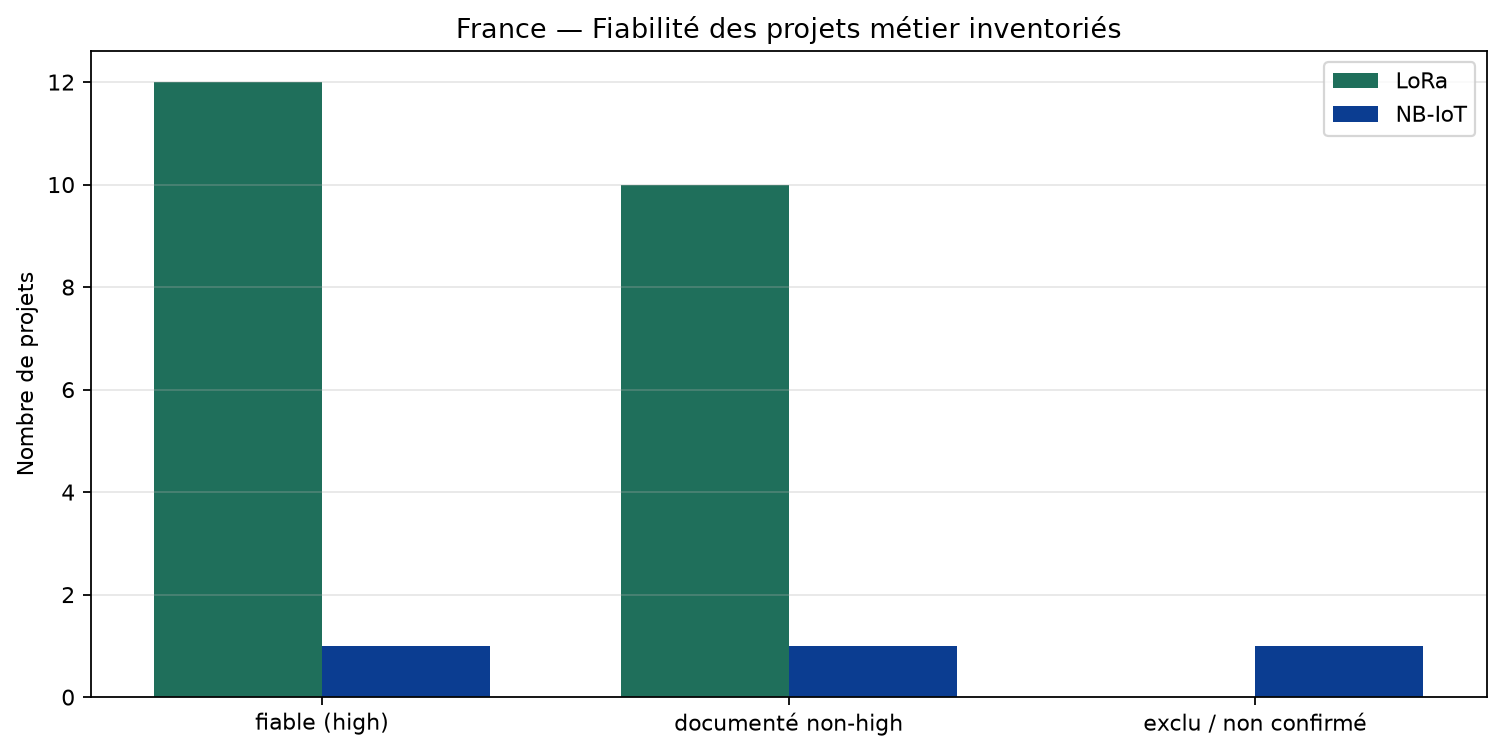
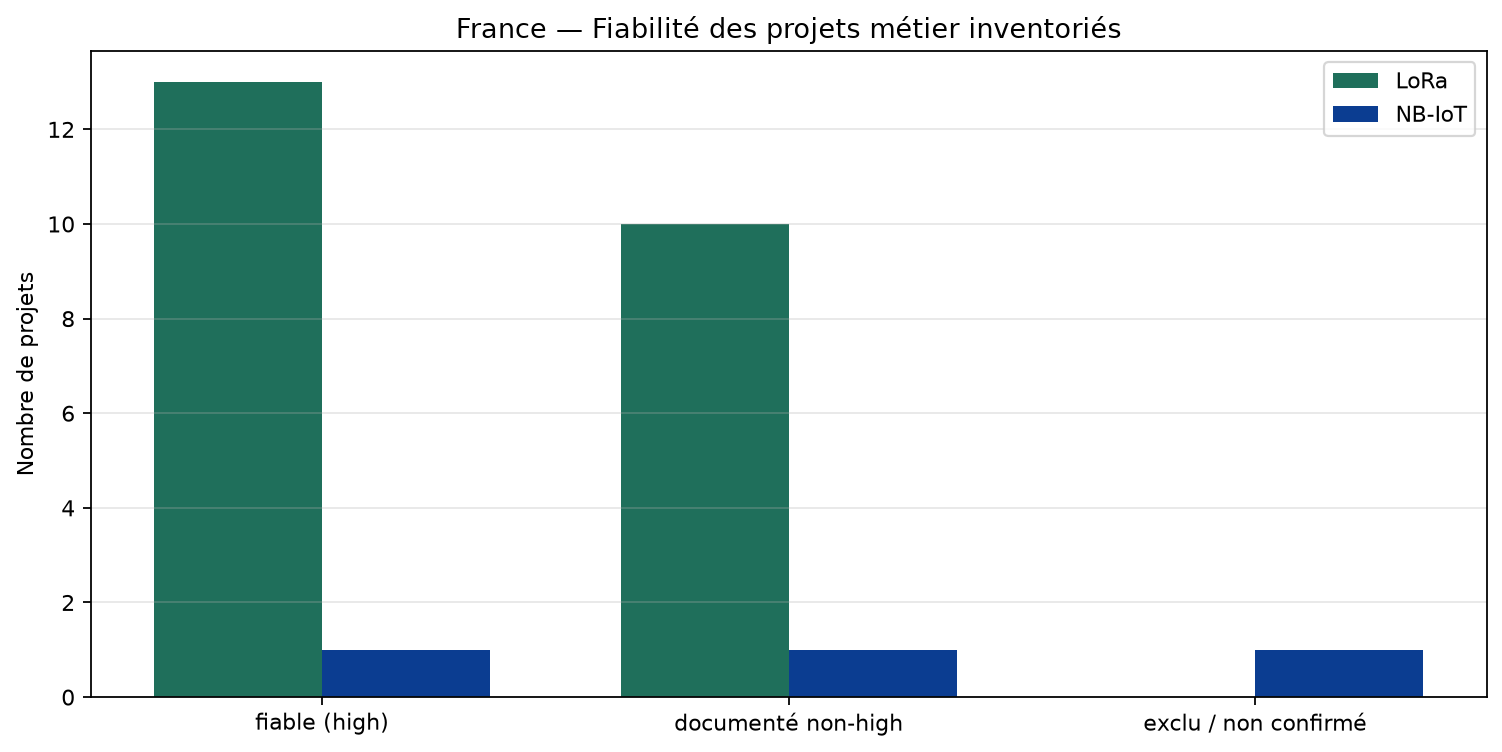
Complète les jalons objets LoRa 2024–2026 (Berry, Ribemont, Montpellier)
Ajoute les volumes constatés pour 2025–2026 et documente l’absence
de projets métier NB-IoT chiffrés sur ces années.

diff --git a/reports/lora_usagers_france_depuis_2015.md b/reports/lora_usagers_france_depuis_2015.md
@@ -4,19 +4,19 @@ Pas de registre national Arcep des projets LoRaWAN. Quantification = (A) inventa
 
 ## Synthèse chiffrée (inventaire)
 
-- Collectivités inventoriées : **32**
-- dont projets métier : **22**
+- Collectivités inventoriées : **33**
+- dont projets métier : **23**
 - dont couverture opérateur seule : **10**
 - Sociétés inventoriées : **27**
-- Objets documentés (somme des projets ayant un chiffre) : **95 395**
+- Objets documentés (somme des projets ayant un chiffre) : **114 955**
 
 ## Tendances (croissance du cumul projets métier)
 
 | Période | Début | Fin | Variation | Lecture |
 |---|---:|---:|---:|---|
 | 2015–2017 | 2 | 7 | **250.0%** | Amorçage + ouverture nationale ; peu de projets métier hors pilotes/grandes villes |
-| 2018–2022 | 7 | 20 | **185.7%** | CROISSANCE forte : eau, smart city, départements (Sarthe, Finistère), déchets |
-| 2023–2026 | 20 | 22 | **10.0%** | CROISSANCE continue des projets métier privés malgré fin Objenious |
+| 2018–2022 | 7 | 21 | **200.0%** | CROISSANCE forte : eau, smart city, départements (Sarthe, Finistère), déchets |
+| 2023–2026 | 21 | 23 | **9.5%** | CROISSANCE continue des projets métier privés malgré fin Objenious |
 
 ## Tableau annuel quantifié
 
@@ -29,11 +29,11 @@ Pas de registre national Arcep des projets LoRaWAN. Quantification = (A) inventa
 | 2019 | 1 | 1 | 10 | 11.1% | 20 | 18 | 450 |
 | 2020 | 2 | 2 | 12 | 20.0% | 22 | 22 | 450 |
 | 2021 | 2 | 2 | 14 | 16.7% | 24 | 25 | 1 950 |
-| 2022 | 6 | 6 | 20 | 42.9% | 30 | 25 | 5 395 |
-| 2023 | 0 | 0 | 20 | 0.0% | 30 | 26 | 45 395 |
-| 2024 | 2 | 2 | 22 | 10.0% | 32 | 27 | 45 395 |
-| 2025 | 0 | 0 | 22 | 0.0% | 32 | 26 | 45 395 |
-| 2026 | 0 | 0 | 22 | 0.0% | 32 | 26 | 95 395 |
+| 2022 | 7 | 7 | 21 | 50.0% | 31 | 25 | 5 395 |
+| 2023 | 0 | 0 | 21 | 0.0% | 31 | 26 | 45 395 |
+| 2024 | 2 | 2 | 23 | 9.5% | 33 | 27 | 59 955 |
+| 2025 | 0 | 0 | 23 | 0.0% | 33 | 26 | 64 955 |
+| 2026 | 0 | 0 | 23 | 0.0% | 33 | 26 | 114 955 |
 
 ### Lecture
 
@@ -92,8 +92,9 @@ Pas de registre national Arcep des projets LoRaWAN. Quantification = (A) inventa
 | Pays de Montbéliard Agglomération | agglomeration | 2022 | 1 445 |
 | SMICOTOM Médoc | syndicat | 2022 | 523 |
 | Saint-Malo Agglomération | agglomeration | 2022 | 457 |
+| Syndicat intercommunal des eaux de Ribemont (Aisne) | syndicat | 2022 | 14 560 |
 | Département de la Somme | departement | 2024 | — |
-| Indre (36) + Cher (18) — Berry Territoire Innovant | departements | 2024 | — |
+| Indre (36) + Cher (18) — Berry Territoire Innovant | departements | 2024 | 5 000 |
 
 ## Sociétés
 

diff --git a/reports/croisement_projets_metier_lora_nbiot.md b/reports/croisement_projets_metier_lora_nbiot.md
@@ -16,7 +16,7 @@
 
 | Techno | Documentés | Fiables (high) | Objets doc. cumul |
 |---|---:|---:|---:|
-| LoRa | 22 | 12 | 95 395 |
+| LoRa | 23 | 13 | 114 955 |
 | NB-IoT | 2 | 1 | 5 390 |
 
 ## Tendances (cumul documenté)
@@ -30,11 +30,11 @@
 | 2019 | 2 | 9 | 0 | 0 | 7 | 0 |
 | 2020 | 2 | 11 | 0 | 0 | 9 | 0 |
 | 2021 | 2 | 13 | 0 | 0 | 11 | 0 |
-| 2022 | 7 | 20 | 1 | 1 | 11 | 0 |
-| 2023 | 0 | 20 | 1 | 2 | 11 | 1 |
-| 2024 | 2 | 22 | 0 | 2 | 12 | 1 |
-| 2025 | 0 | 22 | 0 | 2 | 12 | 1 |
-| 2026 | 0 | 22 | 0 | 2 | 12 | 1 |
+| 2022 | 8 | 21 | 1 | 1 | 12 | 0 |
+| 2023 | 0 | 21 | 1 | 2 | 12 | 1 |
+| 2024 | 2 | 23 | 0 | 2 | 13 | 1 |
+| 2025 | 0 | 23 | 0 | 2 | 13 | 1 |
+| 2026 | 0 | 23 | 0 | 2 | 13 | 1 |
 
 ### Lecture des tendances
 
@@ -68,9 +68,10 @@
 | 2022 | Pays de Montbéliard Agglomération | non | source_secondaire | 1 445 |
 | 2022 | SMICOTOM Médoc | non | source_secondaire | 523 |
 | 2022 | Saint-Malo Agglomération | non | source_secondaire | 457 |
+| 2022 | Syndicat intercommunal des eaux de Ribemont (Aisne) | oui | source_primaire_ou_presse_forte | 14 560 |
 | 2022 | Val d'Oise Numérique / Essonne Numérique / Seine-et-Marne Numérique | non | projet_infra_en_cours | — |
 | 2024 | Département de la Somme | non | source_secondaire | — |
-| 2024 | Indre (36) + Cher (18) — Berry Territoire Innovant | oui | source_primaire_ou_presse_forte | — |
+| 2024 | Indre (36) + Cher (18) — Berry Territoire Innovant | oui | source_primaire_ou_presse_forte | 5 000 |
 
 ### NB-IoT — projets métier
 
